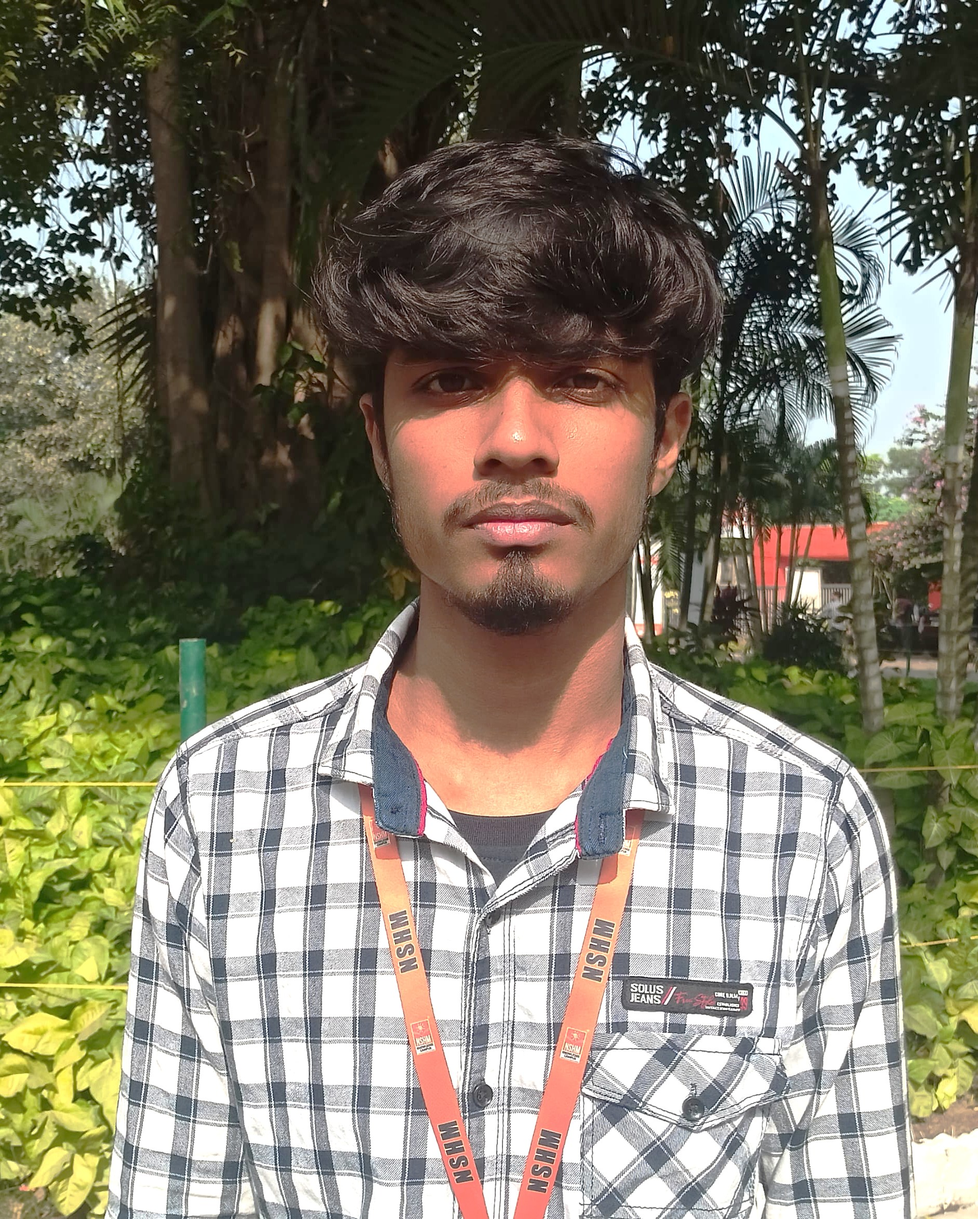
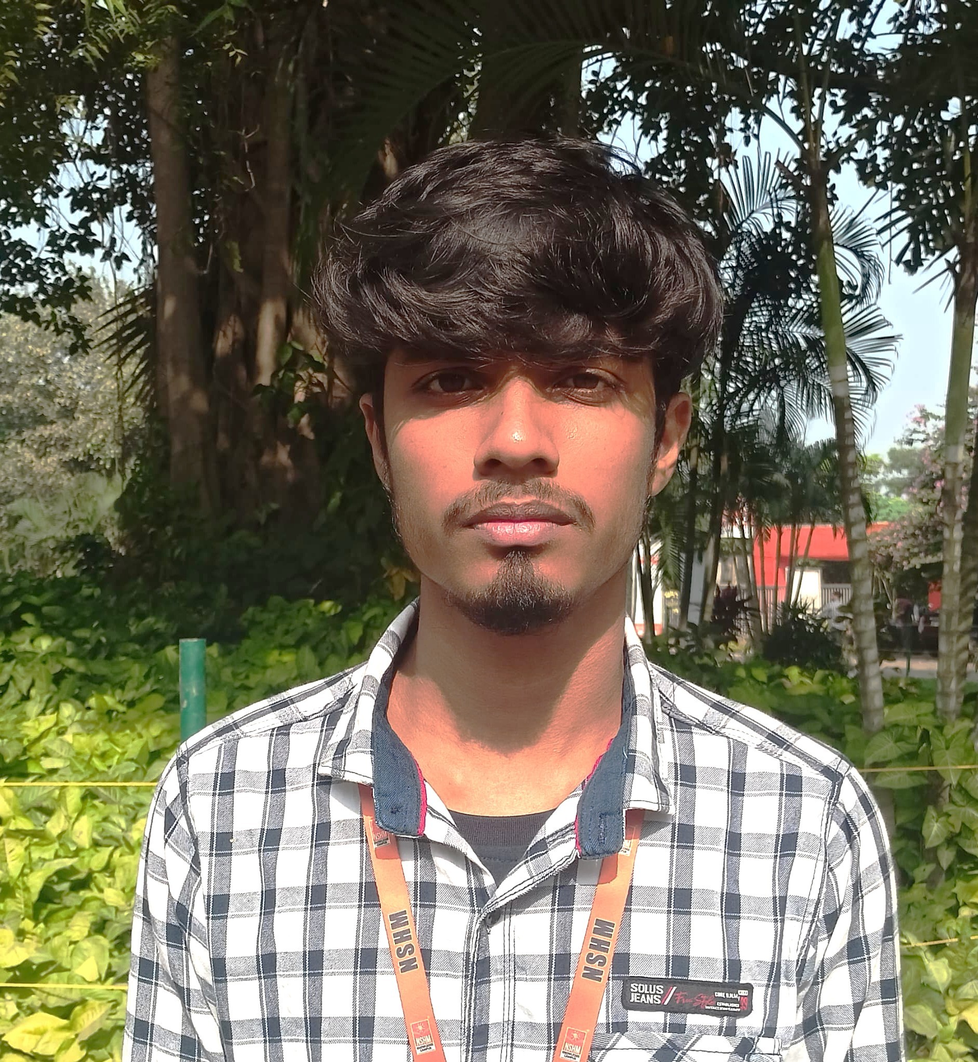
Update a team members photo

diff --git a/src/sections/Teams.js b/src/sections/Teams.js
@@ -6,14 +6,14 @@ import SumitLahaImg from "../assets/team-members/SumitLaha.jpg";
 import ArindamRayImg from "../assets/team-members/ArindamRay.jpg";
 import ShuvodipHazraImg from "../assets/team-members/ShuvodipHazra.jpg";
 import AtiqueAhmed from "../assets/team-members/AtiqueAhmed.jpg";
-// import NachiketaImg from "../assets/team-members/Nachiketa.jpg";
+import NachiketaImg from "../assets/team-members/Nachiketa.jpg";
 import '../styles/Teams.css';
 
 const teamMembers = [
   {
     name: 'Nachiketa Pahari',
     designation: 'Web Lead & Design Lead',
-    image: 'https://media.licdn.com/dms/image/v2/D5603AQEVqM7GSE7y6A/profile-displayphoto-shrink_100_100/profile-displayphoto-shrink_100_100/0/1701323810214?e=1736985600&v=beta&t=oaYu32UJUj674dZiV9WkeaHcaWHBtZCj0KTR2aoMqGo',
+    image: NachiketaImg,
     linkedin: 'https://www.linkedin.com/in/nachiketa-pahari-6b1028257',
   },
   {
